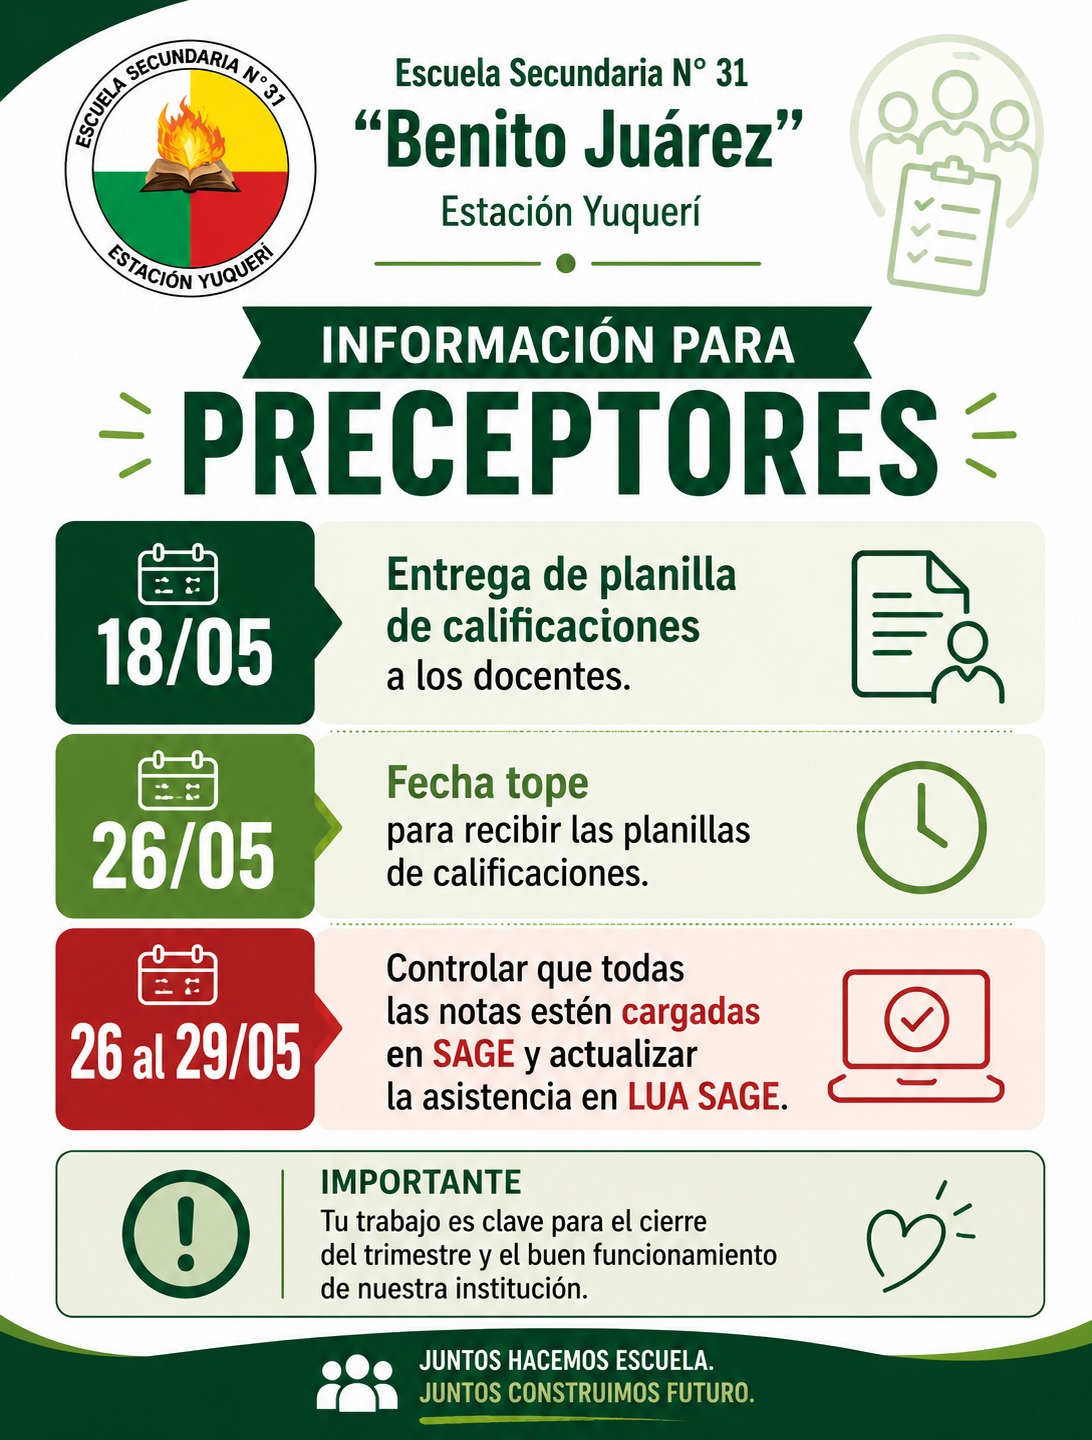
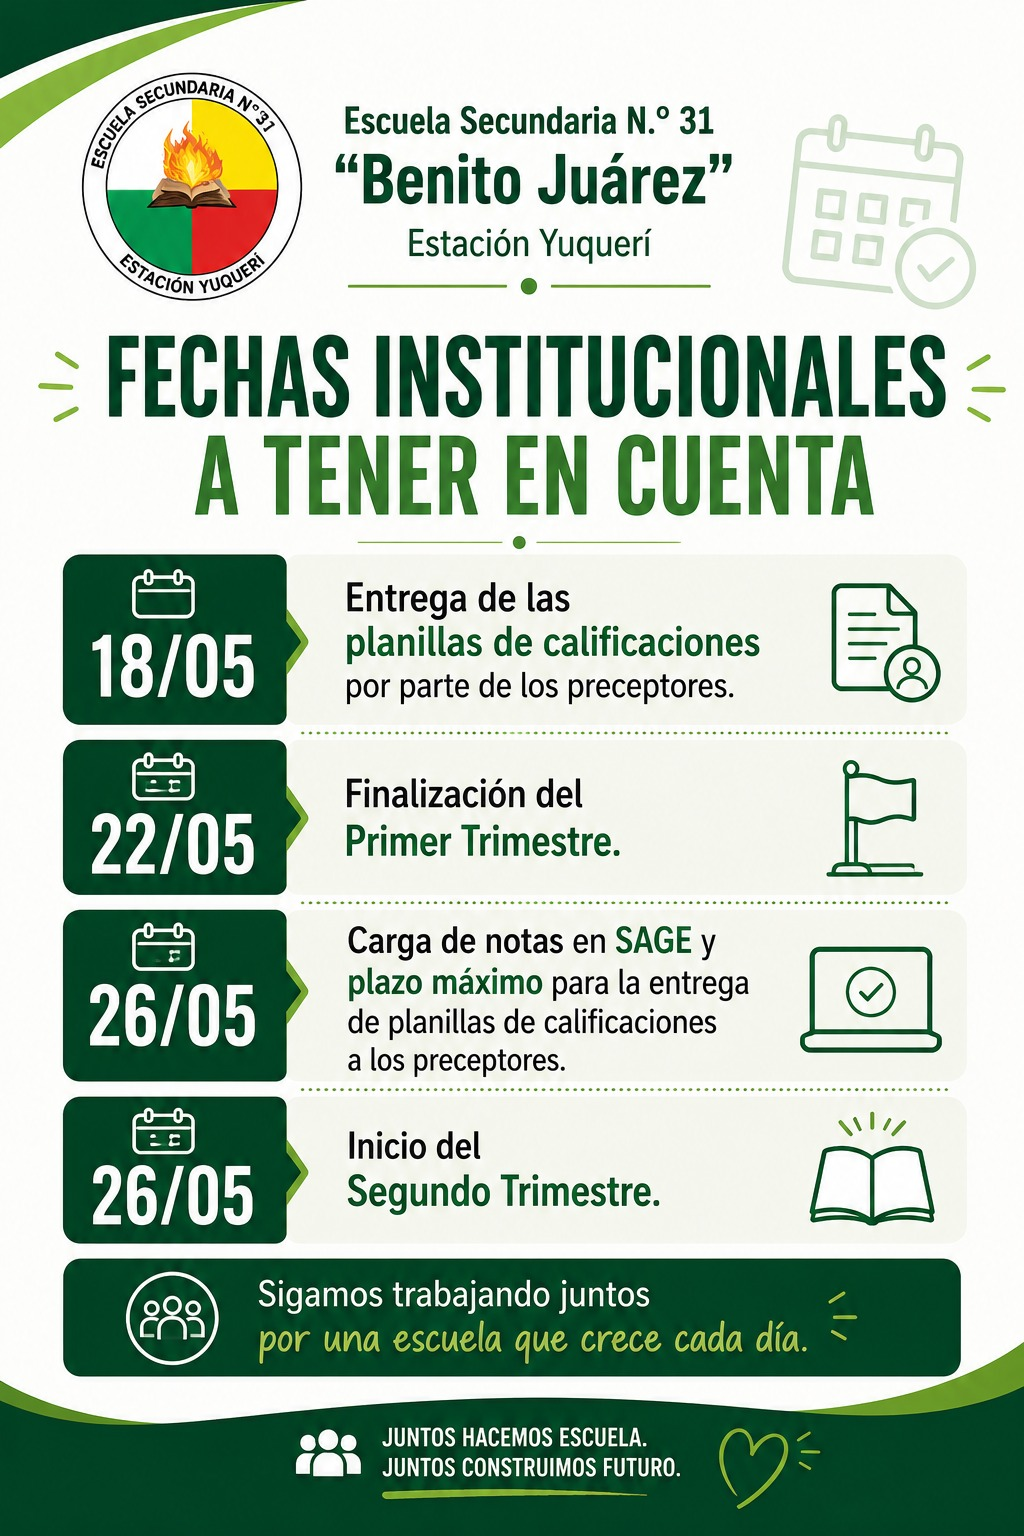
Preceptores

diff --git a/vida-escolar.html b/vida-escolar.html
@@ -49,7 +49,7 @@
         <div class="news-grid visual-news-grid">
           <article class="news-card visual-card"><img src="assets/imagenes/novedades/mesas-examenes-julio-2026.png" alt="Inscripción a mesas de exámenes julio 2026"><div><span class="tag red">Turno julio 2026</span><h3>Inscripción a mesas de exámenes</h3><p>Información para estudiantes con espacios curriculares previos, libres o por movilidad estudiantil.</p><a class="btn" href="assets/imagenes/novedades/mesas-examenes-julio-2026.png" target="_blank" rel="noopener">Ver flyer completo</a></div></article>
           <article class="news-card visual-card"><img src="assets/imagenes/novedades/fechas-institucionales.jpg" alt="Fechas institucionales"><div><span class="tag gold">Organización escolar</span><h3>Fechas institucionales</h3><p>Calendario institucional con fechas relevantes para docentes, estudiantes y familias. Incluye entrega de planillas, finalización del primer trimestre, carga de calificaciones e inicio del segundo trimestre.</p><a class="btn gold" href="assets/imagenes/novedades/fechas-institucionales.jpg" target="_blank" rel="noopener">Ver flyer completo</a></div></article>
-          <article class="news-card visual-card"><img src="assets/imagenes/novedades/informacion-preceptores.jpg" alt="Información para preceptores"><div><span class="tag green">Preceptoría</span><h3>Información para preceptores</h3><p>Orientaciones para preceptores sobre entrega de planillas, recepción de calificaciones, control de asistencia y carga de información en SAGE/LUA SAGE.</p><a class="btn" href="assets/imagenes/novedades/informacion-preceptores.jpg" target="_blank" rel="noopener">Ver flyer completo</a></div></article>
+          <article class="news-card visual-card"><img src="assets/imagenes/novedades/informacion-preceptores.jpg" alt="Información para preceptores"><div><span class="tag green">Información para preceptoría</span><h3>Información para preceptores</h3><p>Orientaciones y recordatorios para el trabajo de preceptoría. Incluye entrega y recepción de planillas de calificaciones, control de carga de notas y asistencia en SAGE, y seguimiento de tareas administrativas vinculadas al cierre del trimestre.</p><a class="btn" href="assets/imagenes/novedades/informacion-preceptores.jpg" target="_blank" rel="noopener">Ver flyer completo</a></div></article>
         </div>
       </section>
 
